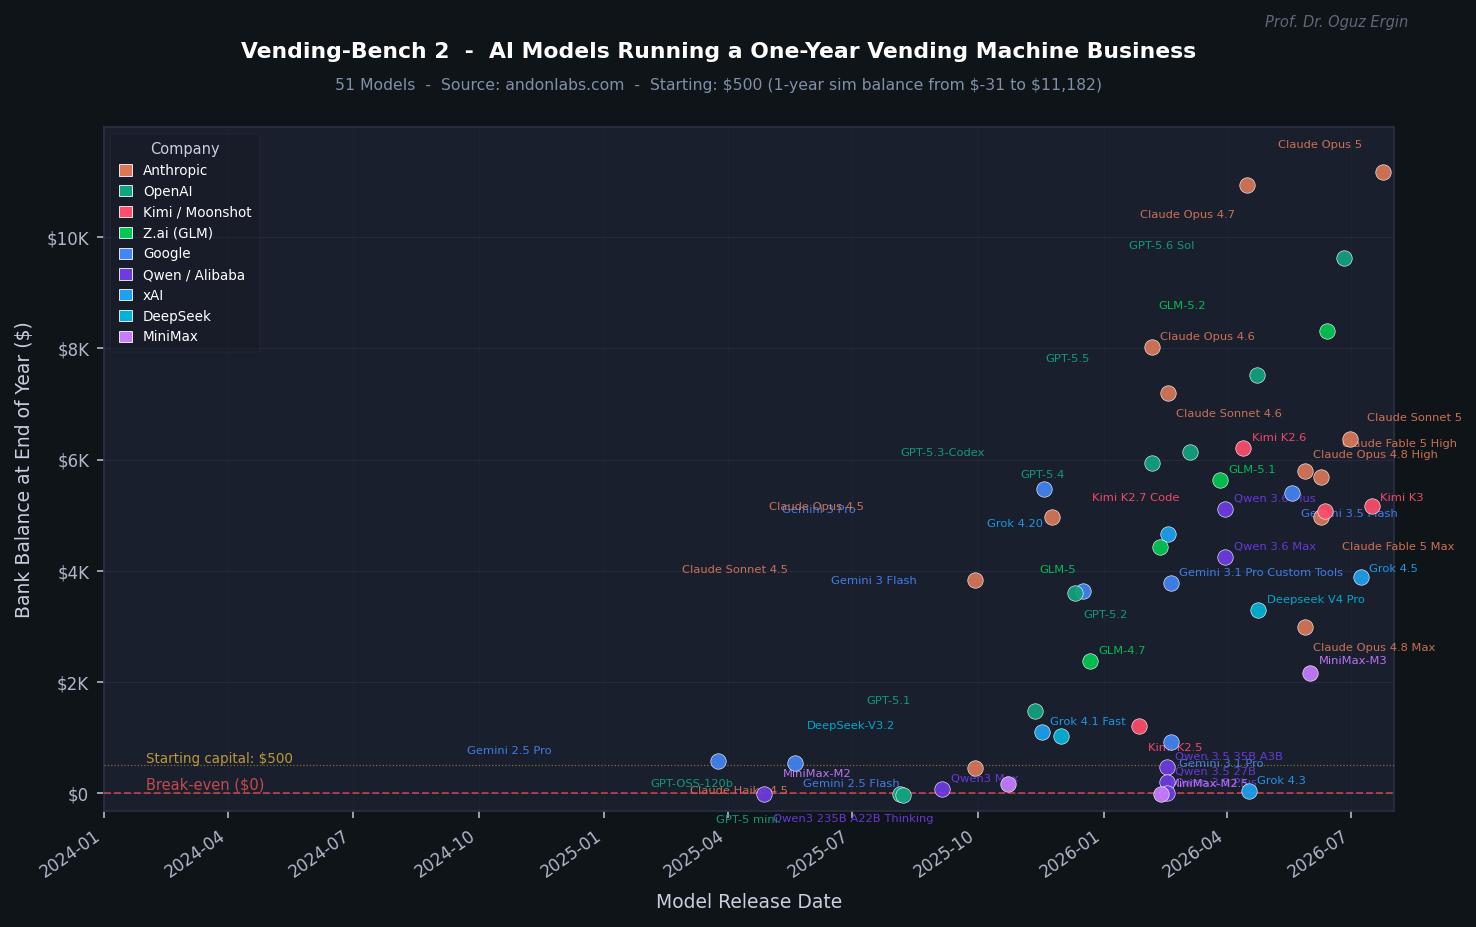
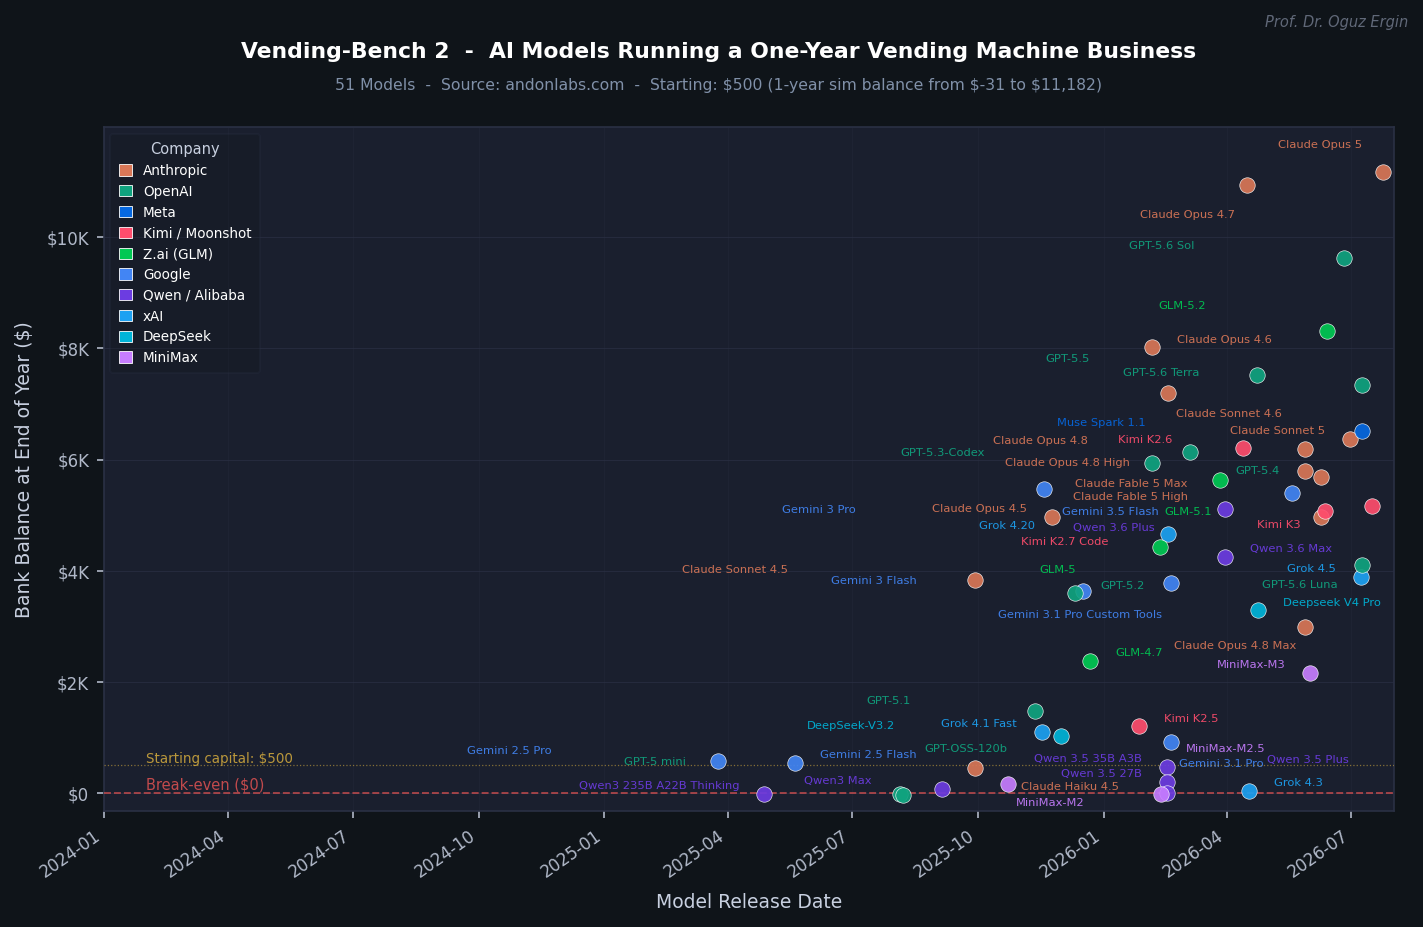
Vending-Bench 2: 4 yeni model + olcume dayali etiket yerlesimi
Andon Labs tazelendi (2026-08-11), 51 -> 55 model:
- GPT-5.6 Terra   7343.21  (OpenAI, 2026-07-09)
- Muse Spark 1.1  6520.47  (Meta,   2026-07-09)  ilk Meta girdisi
- Claude Opus 4.8 6195.64  (temel surum; High/Max zaten vardi)
- GPT-5.6 Luna    4094.71  (OpenAI, 2026-07-09)

Mevcut 51 degerin tamami tazelenen kaynakla birebir ayni; degisen deger yok.
Andon "Kimi K3"u saglayiciya gore ayirmis (Moonshot 5165 / Fireworks 4907 /
ucuncu uc 3194); birinci-el Moonshot degeri korundu, tarih_kaynak'a islendi.

Etiketler artik elle degil olcumle yerlesiyor: manual_offsets bir ONERI,
cakisirsa aday konumlar taranip metin kutusu + nokta isaretcisi + lejant
kutusuyla kesismeyen en yakin konum seciliyor. Aday siralamasi yatay
kaymayi tercih ediyor (dikey kacis etiketi baska noktaya aitmis gibi
gosteriyor). Sonuc: 55 etiketin tamami cakismasiz.

diff --git a/index.html b/index.html
@@ -451,7 +451,7 @@
 </footer>
 
 <script>
-  const ASSET_V = "20260811b";
+  const ASSET_V = "20260811c";
   // Karsilastirma tablosu artik sayfaya gomulu (shadow DOM); iframe/fitCmp yok.
   const labels = {
     tr: {
@@ -485,7 +485,7 @@
       desc_image: "<strong>18 görsel üretme aracı, 91 sürüm.</strong> DALL-E, Midjourney, Imagen, FLUX, Stable Diffusion ve daha fazlası — 2021'den günümüze.",
       desc_video: "<strong>Yapay Zeka Video Üretme Araçları Zaman Çizelgesi.</strong> 18 araç · 71 sürüm · Aralık 2022 – Haziran 2026",
       desc_compare: "<strong>Öncü LLM karşılaştırma tablosu.</strong> 33 model × 65 benchmark. Her satır renk skalalı (yeşil = en iyi, kırmızı = en kötü), en yüksek skor çerçeveli. Anthropic, OpenAI, Google, Moonshot, Z.AI, Alibaba, DeepSeek, xAI, Meta modelleri yan yana.",
-      desc_vending: "<strong>Vending-Bench 2</strong> — 51 yapay zeka modeli, 1 yıl boyunca simüle otomat işletmesi yönetti ve yalnızca son banka bakiyesine göre değerlendirildi. $500 ile başlayan modellerin 4'ü zarar etti; lider Claude Opus 4.7 ile $10.937 kazandı.",
+      desc_vending: "<strong>Vending-Bench 2</strong> — 55 yapay zeka modeli, 1 yıl boyunca simüle otomat işletmesi yönetti ve yalnızca son banka bakiyesine göre değerlendirildi. $500 ile başlayan modellerin 4'ü zarar etti; lider Claude Opus 4.7 ile $10.937 kazandı.",
       alt_llm: "Yapay Zeka Modelleri Zaman Çizelgesi",
       alt_image: "Yapay Zeka Görsel Üretme Araçları Zaman Çizelgesi",
       alt_video: "Yapay Zeka Video Üretme Araçları Zaman Çizelgesi",
@@ -539,7 +539,7 @@
       desc_image: "<strong>18 image generation tools, 86 versions.</strong> DALL-E, Midjourney, Imagen, FLUX, Stable Diffusion and more — from 2021 to today.",
       desc_video: "<strong>AI Video Generation Tools Timeline.</strong> 18 tools · 71 versions · Dec 2022 – Jun 2026",
       desc_compare: "<strong>Frontier LLM comparison table.</strong> 33 models × 65 benchmarks. Each row color-scaled (green = best, red = worst), top score framed. Anthropic, OpenAI, Google, Moonshot, Z.AI, Alibaba, DeepSeek, xAI, Meta models side by side.",
-      desc_vending: "<strong>Vending-Bench 2</strong> — 51 AI models managed a simulated vending business for 1 year, judged solely on final bank balance. Starting with $500, four models lost money; leader Claude Opus 4.7 earned $10,937.",
+      desc_vending: "<strong>Vending-Bench 2</strong> — 55 AI models managed a simulated vending business for 1 year, judged solely on final bank balance. Starting with $500, four models lost money; leader Claude Opus 4.7 earned $10,937.",
       alt_llm: "AI Models Release Timeline",
       alt_image: "AI Image Generation Tools Timeline",
       alt_video: "AI Video Generation Tools Timeline",
@@ -744,6 +744,10 @@
     ["2026-07-24", 11181.87, "Claude Opus 5", "Anthropic"],
     ["2026-07-08",  3887.43, "Grok 4.5", "xAI"],
     ["2026-07-16",  5165.04, "Kimi K3", "Kimi"],
+    ["2026-07-09",   7343.21, "GPT-5.6 Terra", "OpenAI"],
+    ["2026-07-09",   6520.47, "Muse Spark 1.1", "Meta"],
+    ["2026-05-28",   6195.64, "Claude Opus 4.8", "Anthropic"],
+    ["2026-07-09",   4094.71, "GPT-5.6 Luna", "OpenAI"],
   ];
 
   const companyColors = {
@@ -756,6 +760,7 @@
     "DeepSeek":  "#ef4444",
     "xAI":       "#0891B2",
     "Kimi":      "#EC4899",
+    "Meta":      "#0668E1",
   };
 
   const companyDisplay = {
@@ -768,6 +773,7 @@
     "DeepSeek":  "DeepSeek",
     "xAI":       "xAI (Grok)",
     "Kimi":      "Moonshot (Kimi)",
+    "Meta":      "Meta (Muse)",
   };
 
   // Dataset per company for legend interactivity
@@ -1702,8 +1708,8 @@
           title: {
             display: true,
             text: isTR
-              ? "Vending-Bench 2 · 51 YZ modelinin 1 yıllık otomat işletme sonucu"
-              : "Vending-Bench 2 · 51 AI models after 1 year of simulated vending business",
+              ? "Vending-Bench 2 · 55 YZ modelinin 1 yıllık otomat işletme sonucu"
+              : "Vending-Bench 2 · 55 AI models after 1 year of simulated vending business",
             color: "#ffffff",
             font: { size: 16, weight: "bold" },
             padding: { top: 6, bottom: 18 }

diff --git a/vending_bench_2_tr.py b/vending_bench_2_tr.py
@@ -26,9 +26,12 @@ leaderboard = [
     ("Claude Opus 4.6",              "Anthropic", "2026-02-05",  8017.59),
     ("GPT-5.6 Sol",                  "OpenAI",    "2026-06-26",  9619.37),
     ("GPT-5.5",                      "OpenAI",    "2026-04-23",  7523.84),
+    ("GPT-5.6 Terra",                "OpenAI",    "2026-07-09",  7343.21),
     ("Claude Sonnet 4.6",            "Anthropic", "2026-02-17",  7204.14),
+    ("Muse Spark 1.1",               "Meta",      "2026-07-09",  6520.47),
     ("Kimi K3",                      "Kimi",      "2026-07-16",  5165.04),
     ("Kimi K2.6",                    "Kimi",      "2026-04-13",  6204.57),
+    ("Claude Opus 4.8",              "Anthropic", "2026-05-28",  6195.64),
     ("Kimi K2.7 Code",               "Kimi",      "2026-06-12",  5082.94),
     ("GPT-5.4",                      "OpenAI",    "2026-03-05",  6144.18),
     ("GPT-5.3-Codex",                "OpenAI",    "2026-02-05",  5940.12),
@@ -40,6 +43,7 @@ leaderboard = [
     ("Claude Opus 4.5",              "Anthropic", "2025-11-24",  4967.06),
     ("Grok 4.5",                     "xAI",       "2026-07-08",  3887.43),
     ("Grok 4.20",                    "xAI",       "2026-02-17",  4662.85),
+    ("GPT-5.6 Luna",                 "OpenAI",    "2026-07-09",  4094.71),
     ("GLM-5",                        "Z.ai",      "2026-02-11",  4432.12),
     ("Qwen 3.6 Max",                 "Qwen",      "2026-03-31",  4254.19),
     ("Claude Sonnet 4.5",            "Anthropic", "2025-09-29",  3838.74),
@@ -71,7 +75,7 @@ leaderboard = [
 
 # Tarih eslestirme kaynaklari (rapor icin yazdirma)
 tarih_kaynak = {
-    "Kimi K3":                     "Andon Labs vb2 runs 2026-07-25 (Moonshot saglayici)",
+    "Kimi K3":                     "Andon Labs vb2 2026-08-11: birinci-el Moonshot ucu (Fireworks 4907, 3. uc 3194)",
     "Grok 4.5":                    "Andon Labs vb2 runs 2026-07-25",
     "Claude Opus 5":               "Andon Labs leaderboard 2026-07-25 dogrulandi",
     "GPT-5.6 Sol":                 "Andon Labs leaderboard 2026-07-25 dogrulandi",
@@ -119,6 +123,10 @@ tarih_kaynak = {
     "Qwen3 235B A22B Thinking":    "Qwen3 ana tarihi kullanildi",
     "GPT-OSS-120b":                "varsayim: 2025-08-05",
     "MiniMax-M2.5":                "ai_timeline_final_tr.py",
+    "GPT-5.6 Terra":               "Andon Labs vb2 2026-08-11; tarih AA (2026-07-09)",
+    "GPT-5.6 Luna":                "Andon Labs vb2 2026-08-11; tarih AA (2026-07-09)",
+    "Muse Spark 1.1":              "Andon Labs vb2 2026-08-11; tarih ai_timeline_final_tr.py",
+    "Claude Opus 4.8":             "Andon Labs vb2 2026-08-11 (temel surum; High/Max ayri satir)",
     "GPT-5 mini":                  "GPT-5 tarihi kullanildi",
 }
 
@@ -142,6 +150,7 @@ colors = {
     "Z.ai":      "#00C853",
     "Kimi":      "#FF4D6D",
     "MiniMax":   "#C77DFF",
+    "Meta":      "#0668E1",
 }
 
 # Sirket goruntu isimleri (legend icin)
@@ -155,6 +164,7 @@ sirket_gorunum = {
     "Z.ai":      "Z.ai (GLM)",
     "Kimi":      "Kimi / Moonshot",
     "MiniMax":   "MiniMax",
+    "Meta":      "Meta",
 }
 
 # ============================================================
@@ -196,6 +206,10 @@ def get_offset(i, v):
 
 # Ozel offsetler (gosel cakisma onleme)
 manual_offsets = {
+    "GPT-5.6 Terra":              (-78,   6),
+    "Muse Spark 1.1":             (  6,   7),
+    "Claude Opus 4.8":            (-84,   5),
+    "GPT-5.6 Luna":               (  5,   6),
     "Claude Opus 5":              (-10, 13),
     "GPT-5.6 Sol":               (-72,  6),
     "Kimi K2.7 Code":             (-70,  6),
@@ -335,7 +349,7 @@ fig.text(
 )
 fig.text(
     0.5, 0.895,
-    "51 Model  ·  Kaynak: andonlabs.com  ·  Başlangıç: $500 (1 yıllık simülasyon sonucu bakiye $-31'den $11.182'ye)",
+    "55 Model  ·  Kaynak: andonlabs.com  ·  Başlangıç: $500 (1 yıllık simülasyon sonucu bakiye $-31'den $11.182'ye)",
     ha="center", va="center", fontsize=7.5, color="#8090a8"
 )
 
@@ -377,6 +391,78 @@ legend = ax.legend(
     title_fontsize=7,
 )
 legend.get_title().set_color("#c8d0e0")
+
+# ============================================================
+# ETIKET YERLESIMI - olcume dayali cakisma cozumu
+# manual_offsets bir ONERIDIR; cakisirsa aday konumlar denenir.
+# ============================================================
+fig.canvas.draw()
+_rend = fig.canvas.get_renderer()
+
+# engeller: nokta isaretcileri
+_engel_nokta = []
+for _d, _v in zip(dates, values):
+    _px, _py = ax.transData.transform((mdates.date2num(_d), _v))
+    _engel_nokta.append((_px, _py))
+_R = 7.0
+
+# engel: lejant kutusu
+_lej = legend.get_window_extent(_rend)
+
+# aday konumlar: noktaya yakindan uzaga taranir
+# Aday konumlar. Cizelgenin dili YATAY: etiket noktanin sagina/soluna yazilir.
+# Dikey kacis kafa karistirir (etiket baska noktaya ait sanilir), o yuzden
+# dy araligi dar tutulur ve siralamada agir cezalandirilir.
+_ADAYLAR = sorted([(dx, dy) for dx in (4, -4, 12, -12, 22, -22, 34, -34, 48, -48, 64, -64, 84, -84, 104, -104)
+                            for dy in (4, -9, 10, -15, 16, -20, 22, -26)],
+                  key=lambda p: abs(p[0]) * 0.5 + abs(p[1]) * 4.0)
+
+_metin = {t.get_text(): t for t in ax.texts if t.get_text() in set(n for n, *_ in leaderboard)}
+_yerlesik = [_lej]
+
+def _ceza(bb, xy):
+    """Kutu ne kadar kotu? 0 = temiz."""
+    c = 0.0
+    for o in _yerlesik:
+        ox = min(bb.x1, o.x1) - max(bb.x0, o.x0)
+        oy = min(bb.y1, o.y1) - max(bb.y0, o.y0)
+        if ox > 1 and oy > 1:
+            c += ox * oy
+    for _px, _py in _engel_nokta:
+        if (bb.x0 - _R < _px < bb.x1 + _R) and (bb.y0 - _R < _py < bb.y1 + _R):
+            c += 240.0
+    # eksen disina tasma
+    ab = ax.get_window_extent(_rend)
+    if bb.x1 > ab.x1: c += (bb.x1 - ab.x1) * 12
+    if bb.x0 < ab.x0: c += (ab.x0 - bb.x0) * 12
+    if bb.y1 > ab.y1: c += (bb.y1 - ab.y1) * 12
+    if bb.y0 < ab.y0: c += (ab.y0 - bb.y0) * 12
+    return c
+
+# onemli (yuksek bakiyeli) modeller once yerlessin
+_sira = sorted(zip(names, values), key=lambda x: -x[1])
+for _n, _v in _sira:
+    _t = _metin.get(_n)
+    if _t is None: continue
+    _adaylar = [manual_offsets.get(_n, (4, 4))] + _ADAYLAR
+    _en, _enc = None, None
+    for _ox, _oy in _adaylar:
+        _t.set_position((_ox, _oy))
+        _t.set_ha("left" if _ox >= 0 else "right")
+        _bb = _t.get_window_extent(_rend)
+        _c = _ceza(_bb, None)
+        if _c == 0:
+            _en, _enc = (_ox, _oy), _bb
+            break
+        if _enc is None or _c < _enc[1]:
+            _en, _enc = (_ox, _oy), (_bb, _c)
+    if isinstance(_enc, tuple):
+        _ox, _oy = _en
+        _t.set_position((_ox, _oy)); _t.set_ha("left" if _ox >= 0 else "right")
+        _enc = _t.get_window_extent(_rend)
+    _yerlesik.append(_enc)
+
+
 
 # ============================================================
 # KAYDET

diff --git a/vending_bench_2.py b/vending_bench_2.py
@@ -26,9 +26,12 @@ leaderboard = [
     ("Claude Opus 4.6",              "Anthropic", "2026-02-05",  8017.59),
     ("GPT-5.6 Sol",                  "OpenAI",    "2026-06-26",  9619.37),
     ("GPT-5.5",                      "OpenAI",    "2026-04-23",  7523.84),
+    ("GPT-5.6 Terra",                "OpenAI",    "2026-07-09",  7343.21),
     ("Claude Sonnet 4.6",            "Anthropic", "2026-02-17",  7204.14),
+    ("Muse Spark 1.1",               "Meta",      "2026-07-09",  6520.47),
     ("Kimi K3",                      "Kimi",      "2026-07-16",  5165.04),
     ("Kimi K2.6",                    "Kimi",      "2026-04-13",  6204.57),
+    ("Claude Opus 4.8",              "Anthropic", "2026-05-28",  6195.64),
     ("Kimi K2.7 Code",               "Kimi",      "2026-06-12",  5082.94),
     ("GPT-5.4",                      "OpenAI",    "2026-03-05",  6144.18),
     ("GPT-5.3-Codex",                "OpenAI",    "2026-02-05",  5940.12),
@@ -40,6 +43,7 @@ leaderboard = [
     ("Claude Opus 4.5",              "Anthropic", "2025-11-24",  4967.06),
     ("Grok 4.5",                     "xAI",       "2026-07-08",  3887.43),
     ("Grok 4.20",                    "xAI",       "2026-02-17",  4662.85),
+    ("GPT-5.6 Luna",                 "OpenAI",    "2026-07-09",  4094.71),
     ("GLM-5",                        "Z.ai",      "2026-02-11",  4432.12),
     ("Qwen 3.6 Max",                 "Qwen",      "2026-03-31",  4254.19),
     ("Claude Sonnet 4.5",            "Anthropic", "2025-09-29",  3838.74),
@@ -71,7 +75,7 @@ leaderboard = [
 
 # Date mapping sources (for verification)
 date_sources = {
-    "Kimi K3":                     "Andon Labs vb2 runs 2026-07-25 (Moonshot saglayici)",
+    "Kimi K3":                     "Andon Labs vb2 2026-08-11: birinci-el Moonshot ucu (Fireworks 4907, 3. uc 3194)",
     "Grok 4.5":                    "Andon Labs vb2 runs 2026-07-25",
     "Claude Opus 5":               "Andon Labs leaderboard 2026-07-25 dogrulandi",
     "GPT-5.6 Sol":                 "Andon Labs leaderboard 2026-07-25 dogrulandi",
@@ -119,6 +123,10 @@ date_sources = {
     "Qwen3 235B A22B Thinking":    "Qwen3 base date used (2025-04-28)",
     "GPT-OSS-120b":                "assumed 2025-08-05 (OpenAI open-weight release)",
     "MiniMax-M2.5":                "ai_timeline_final_tr.py (exact)",
+    "GPT-5.6 Terra":               "Andon Labs vb2 2026-08-11; date AA (2026-07-09)",
+    "GPT-5.6 Luna":                "Andon Labs vb2 2026-08-11; date AA (2026-07-09)",
+    "Muse Spark 1.1":              "Andon Labs vb2 2026-08-11; date ai_timeline_final_tr.py",
+    "Claude Opus 4.8":             "Andon Labs vb2 2026-08-11 (base variant; High/Max separate rows)",
     "GPT-5 mini":                  "GPT-5 date used (2025-08-07)",
 }
 
@@ -142,6 +150,7 @@ colors = {
     "Z.ai":      "#00C853",
     "Kimi":      "#FF4D6D",
     "MiniMax":   "#C77DFF",
+    "Meta":      "#0668E1",
 }
 
 company_display = {
@@ -154,6 +163,7 @@ company_display = {
     "Z.ai":      "Z.ai (GLM)",
     "Kimi":      "Kimi / Moonshot",
     "MiniMax":   "MiniMax",
+    "Meta":      "Meta",
 }
 
 # ============================================================
@@ -178,6 +188,10 @@ for i, (d, v, c, n) in enumerate(zip(dates, values, companies, names)):
 # LABELS - smart offsets
 # ============================================================
 manual_offsets = {
+    "GPT-5.6 Terra":              (-78,   6),
+    "Muse Spark 1.1":             (  6,   7),
+    "Claude Opus 4.8":            (-84,   5),
+    "GPT-5.6 Luna":               (  5,   6),
     "Claude Opus 5":              (-10, 13),
     "GPT-5.6 Sol":               (-72,  6),
     "Kimi K2.7 Code":             (-70,  6),
@@ -351,6 +365,78 @@ legend = ax.legend(
     title_fontsize=7,
 )
 legend.get_title().set_color("#c8d0e0")
+
+# ============================================================
+# ETIKET YERLESIMI - olcume dayali cakisma cozumu
+# manual_offsets bir ONERIDIR; cakisirsa aday konumlar denenir.
+# ============================================================
+fig.canvas.draw()
+_rend = fig.canvas.get_renderer()
+
+# engeller: nokta isaretcileri
+_engel_nokta = []
+for _d, _v in zip(dates, values):
+    _px, _py = ax.transData.transform((mdates.date2num(_d), _v))
+    _engel_nokta.append((_px, _py))
+_R = 7.0
+
+# engel: lejant kutusu
+_lej = legend.get_window_extent(_rend)
+
+# aday konumlar: noktaya yakindan uzaga taranir
+# Aday konumlar. Cizelgenin dili YATAY: etiket noktanin sagina/soluna yazilir.
+# Dikey kacis kafa karistirir (etiket baska noktaya ait sanilir), o yuzden
+# dy araligi dar tutulur ve siralamada agir cezalandirilir.
+_ADAYLAR = sorted([(dx, dy) for dx in (4, -4, 12, -12, 22, -22, 34, -34, 48, -48, 64, -64, 84, -84, 104, -104)
+                            for dy in (4, -9, 10, -15, 16, -20, 22, -26)],
+                  key=lambda p: abs(p[0]) * 0.5 + abs(p[1]) * 4.0)
+
+_metin = {t.get_text(): t for t in ax.texts if t.get_text() in set(n for n, *_ in leaderboard)}
+_yerlesik = [_lej]
+
+def _ceza(bb, xy):
+    """Kutu ne kadar kotu? 0 = temiz."""
+    c = 0.0
+    for o in _yerlesik:
+        ox = min(bb.x1, o.x1) - max(bb.x0, o.x0)
+        oy = min(bb.y1, o.y1) - max(bb.y0, o.y0)
+        if ox > 1 and oy > 1:
+            c += ox * oy
+    for _px, _py in _engel_nokta:
+        if (bb.x0 - _R < _px < bb.x1 + _R) and (bb.y0 - _R < _py < bb.y1 + _R):
+            c += 240.0
+    # eksen disina tasma
+    ab = ax.get_window_extent(_rend)
+    if bb.x1 > ab.x1: c += (bb.x1 - ab.x1) * 12
+    if bb.x0 < ab.x0: c += (ab.x0 - bb.x0) * 12
+    if bb.y1 > ab.y1: c += (bb.y1 - ab.y1) * 12
+    if bb.y0 < ab.y0: c += (ab.y0 - bb.y0) * 12
+    return c
+
+# onemli (yuksek bakiyeli) modeller once yerlessin
+_sira = sorted(zip(names, values), key=lambda x: -x[1])
+for _n, _v in _sira:
+    _t = _metin.get(_n)
+    if _t is None: continue
+    _adaylar = [manual_offsets.get(_n, (4, 4))] + _ADAYLAR
+    _en, _enc = None, None
+    for _ox, _oy in _adaylar:
+        _t.set_position((_ox, _oy))
+        _t.set_ha("left" if _ox >= 0 else "right")
+        _bb = _t.get_window_extent(_rend)
+        _c = _ceza(_bb, None)
+        if _c == 0:
+            _en, _enc = (_ox, _oy), _bb
+            break
+        if _enc is None or _c < _enc[1]:
+            _en, _enc = (_ox, _oy), (_bb, _c)
+    if isinstance(_enc, tuple):
+        _ox, _oy = _en
+        _t.set_position((_ox, _oy)); _t.set_ha("left" if _ox >= 0 else "right")
+        _enc = _t.get_window_extent(_rend)
+    _yerlesik.append(_enc)
+
+
 
 # ============================================================
 # SAVE
